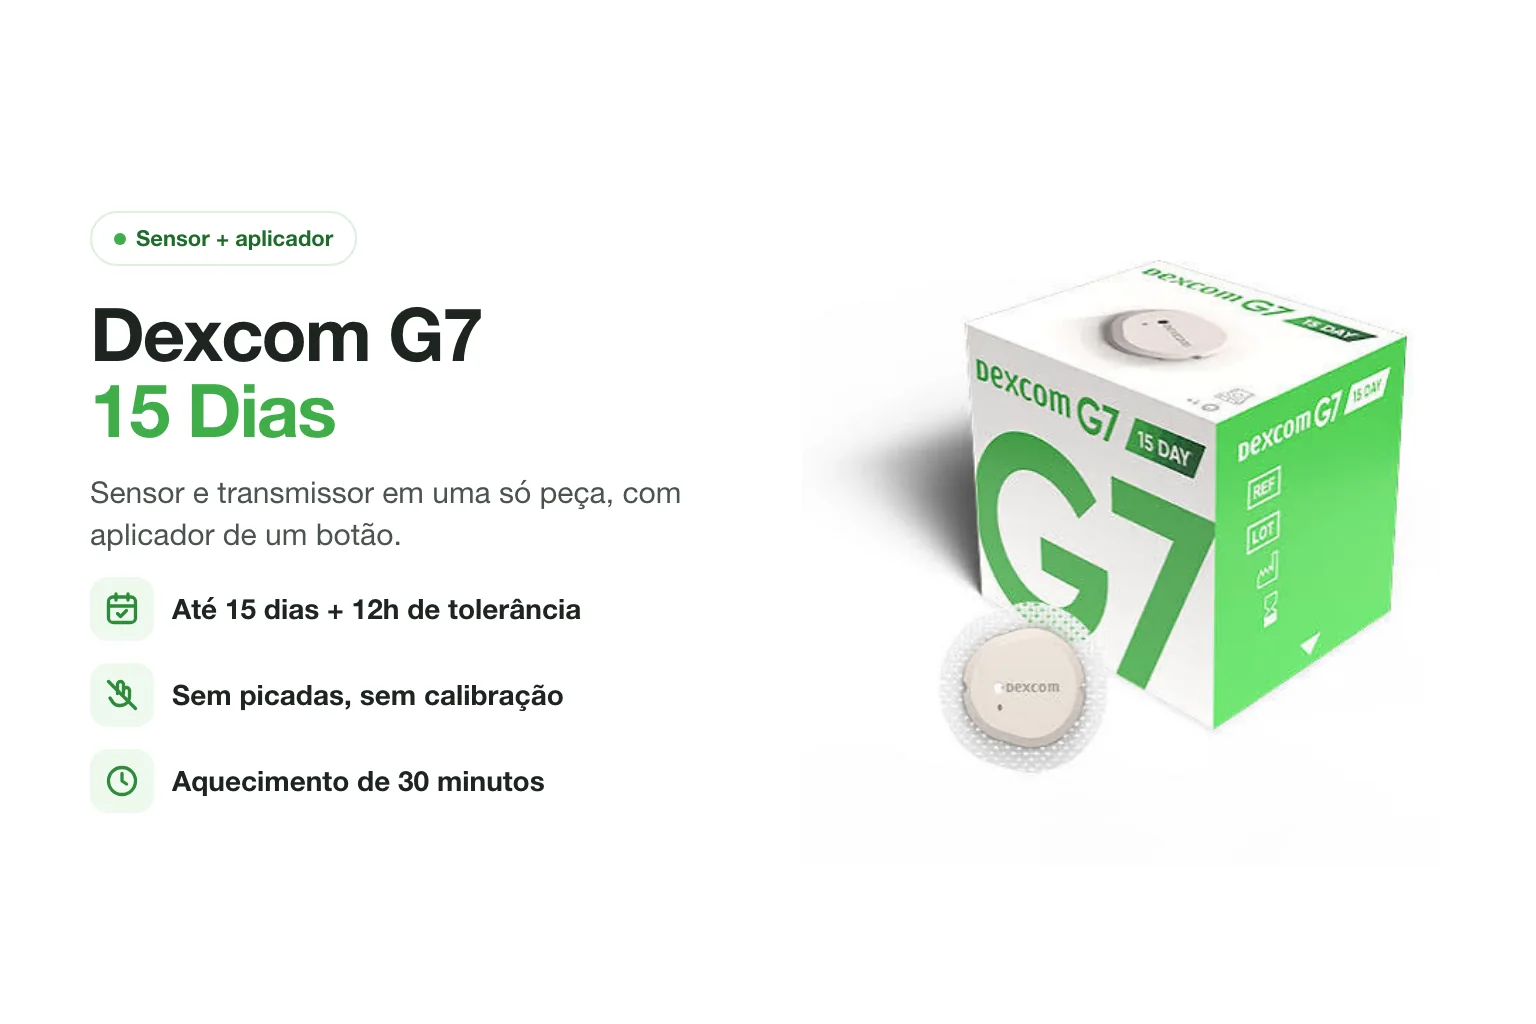
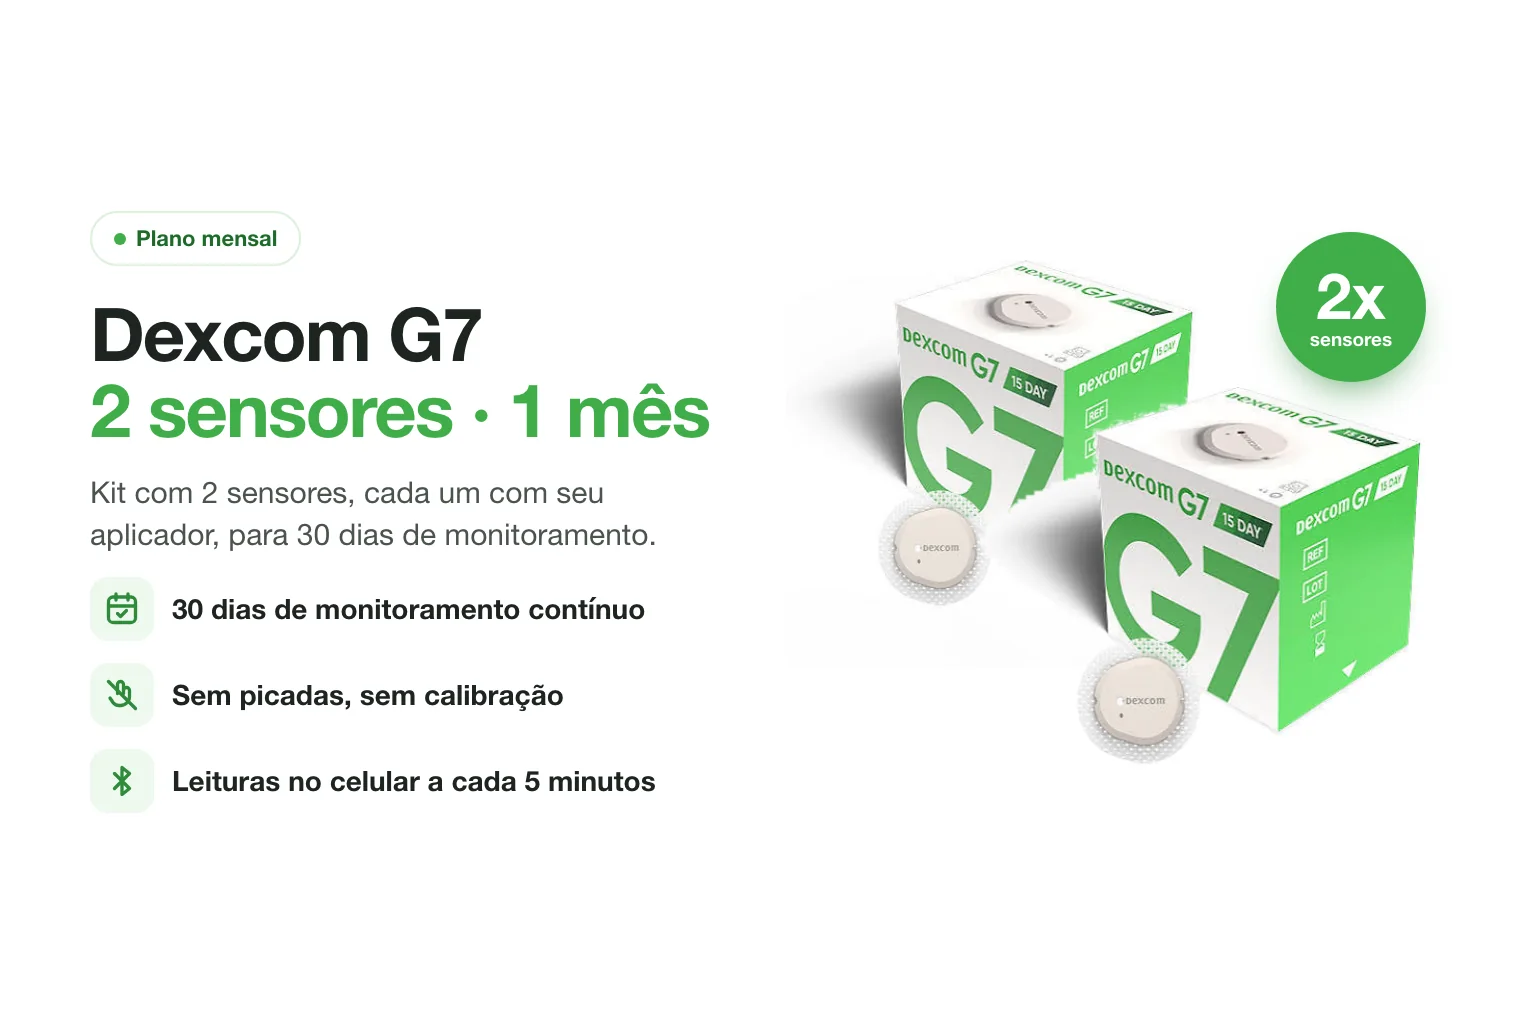
Foto principal do produto: plano mensal com 2 sensores

diff --git a/src/lib/product-images.ts b/src/lib/product-images.ts
@@ -38,8 +38,8 @@ export type GalleryItem = {
 export const productGallery: GalleryItem[] = [
   {
     src: imgProdKit,
-    alt: "Dexcom G7 15 Dias — caixa com sensor e aplicador",
-    caption: "Monitoramento sem calibração",
+    alt: "Dexcom G7 — plano mensal com 2 sensores para 30 dias",
+    caption: "Plano mensal · 2 sensores",
     bg: "#ffffff",
   },
   {
